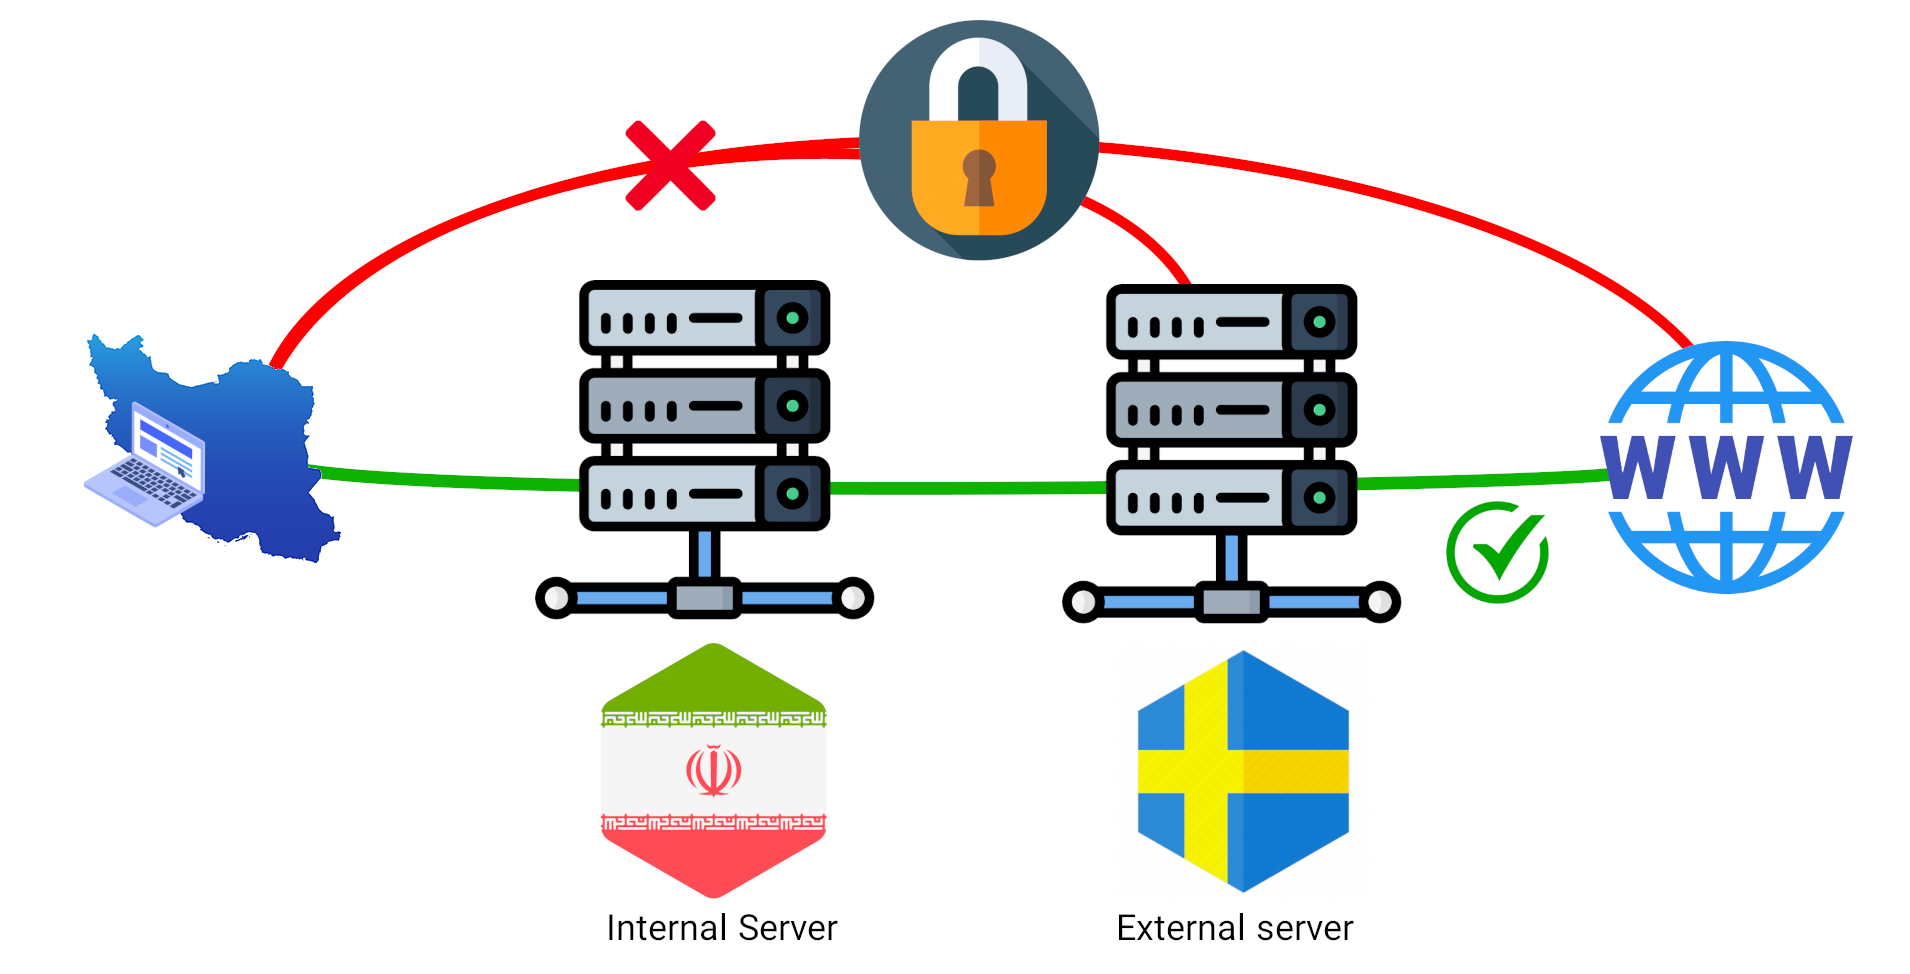
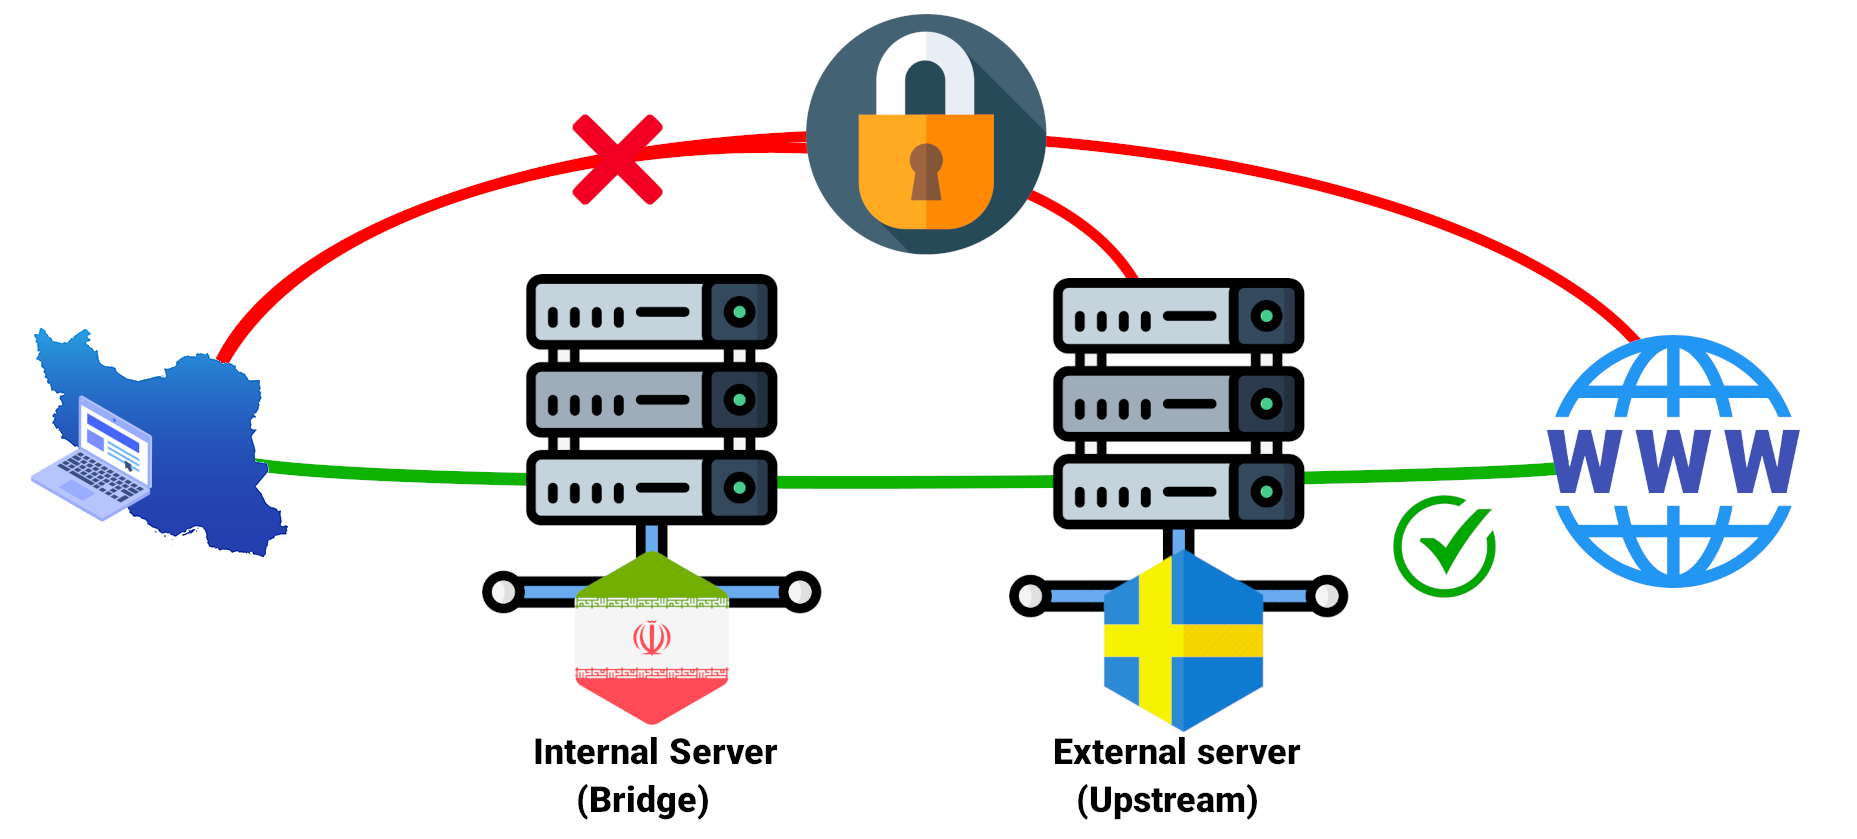
update read me & fix bug update v2ray core cdn

Changed region(s): [[0.0, 0.0, 0.9682, 0.9917]]

diff --git a/README.md b/README.md
@@ -24,4 +24,6 @@ chmod +x vmess-bridge-installer.sh
 ./vmess-bridge-installer.sh
 ```
 
-# developers 
+# developers
+
+4xmen | xstack
